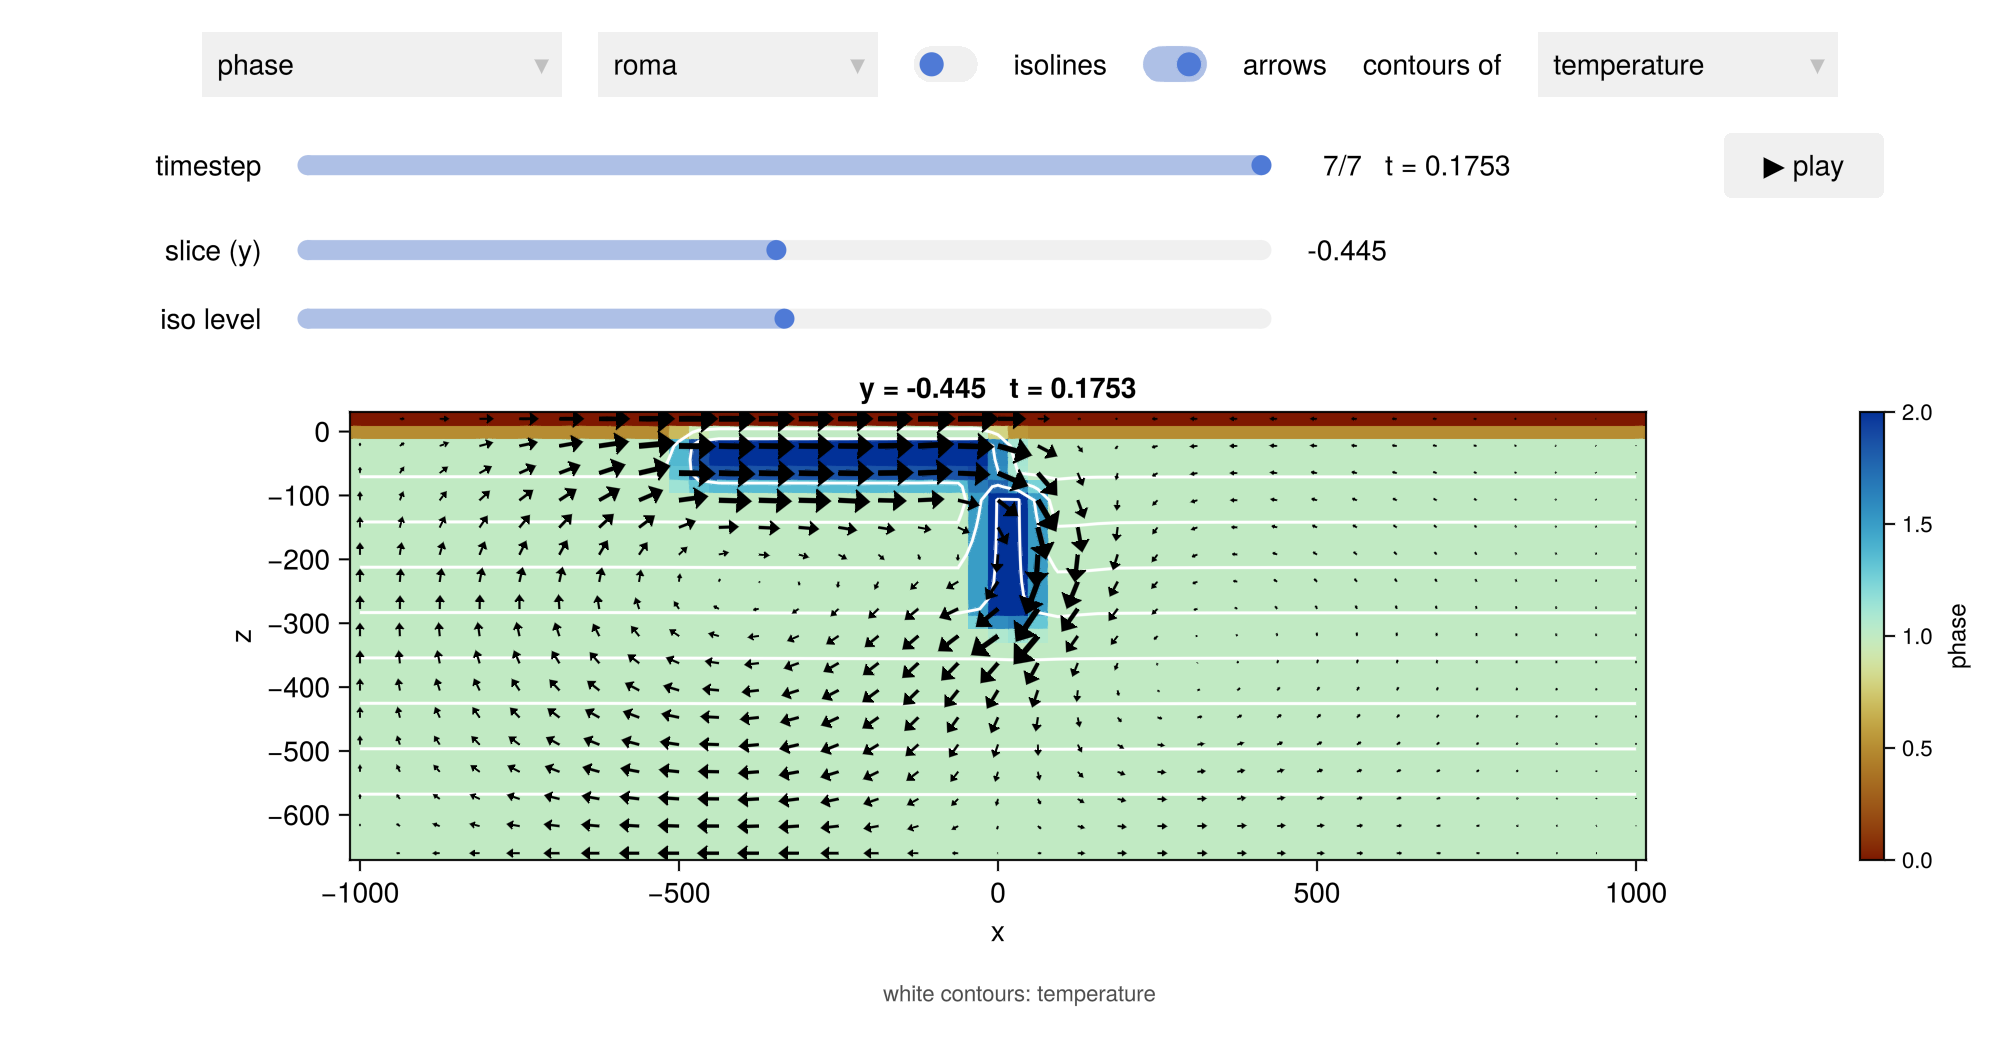
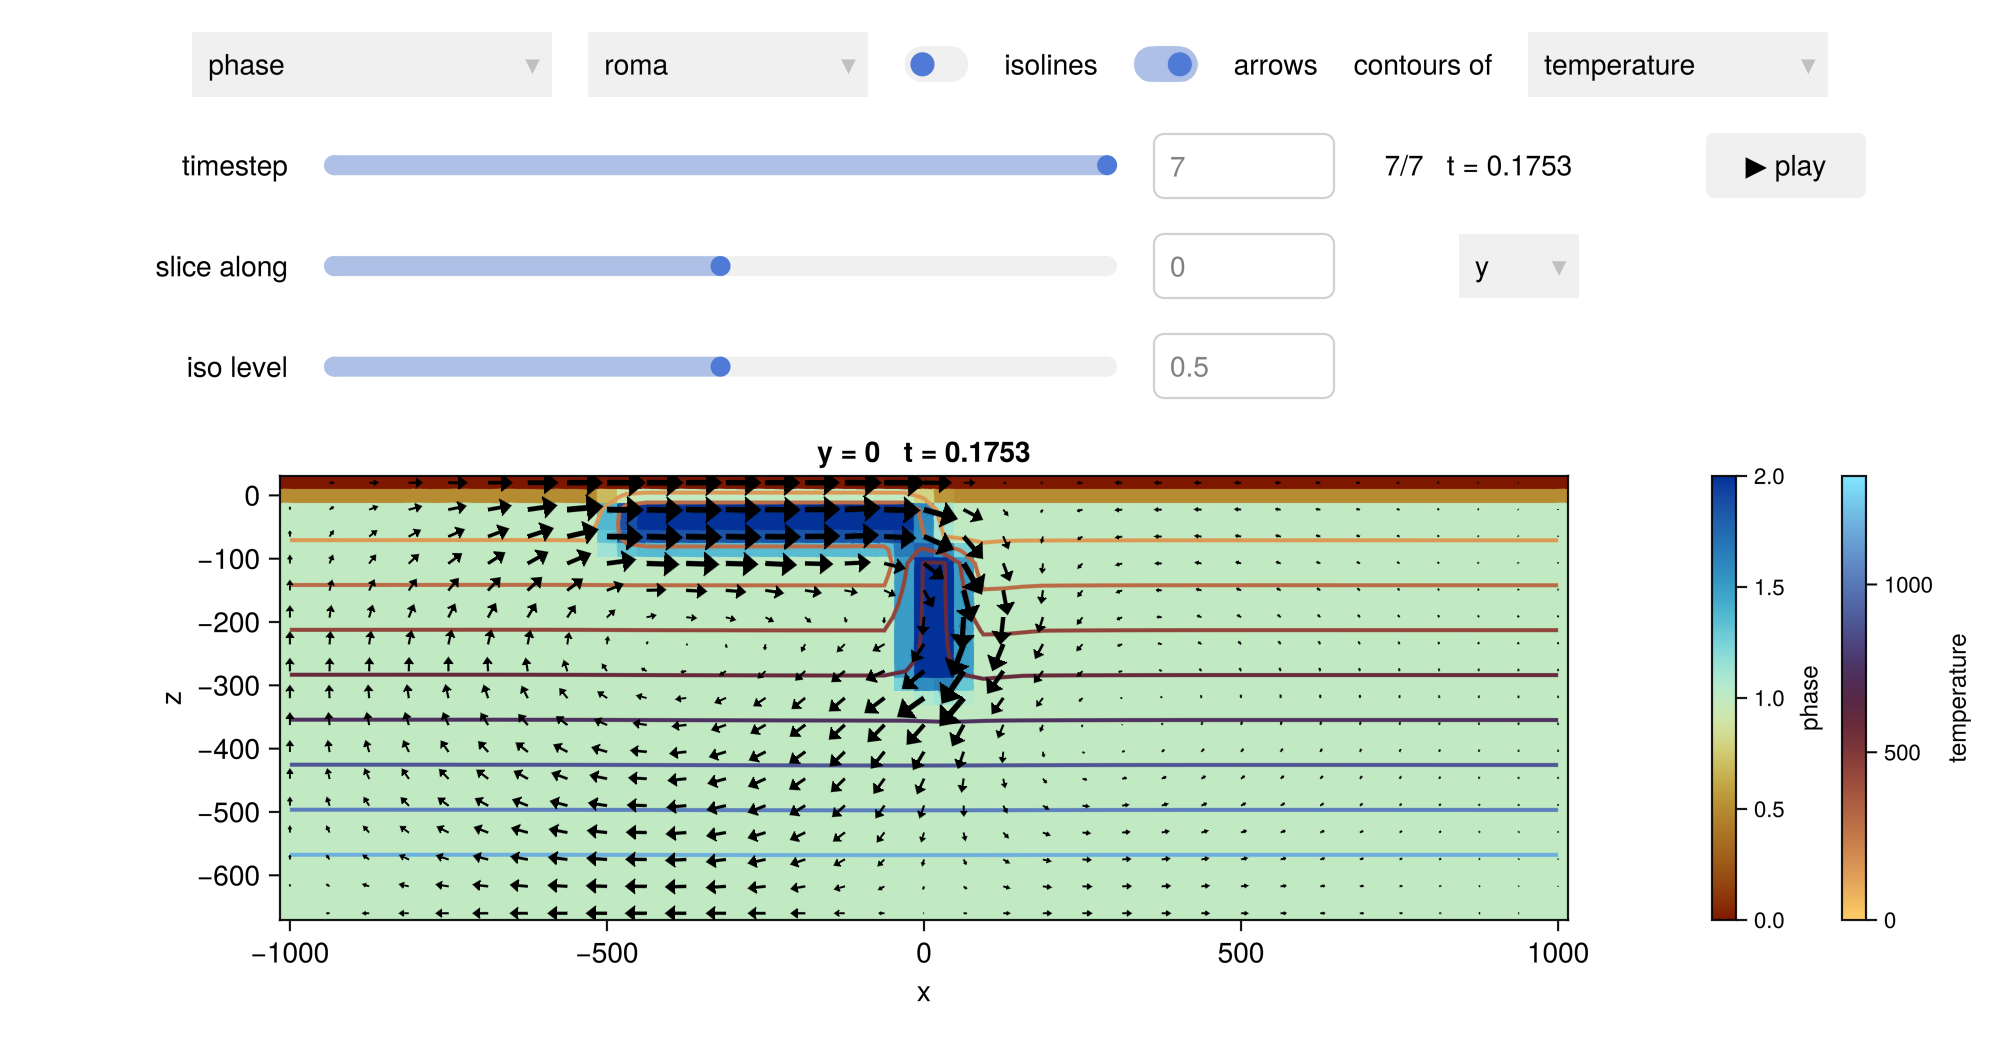
Equal aspect in 3D, coloured contours, and exact slice positions
Four things, all from the PR review:

- `Axis3` stretches each axis to fill its cell, so a sphere came out as a
  flattened ellipsoid. `aspect=:data` keeps the three axes in proportion to the
  model.

- The overlay contours were plain white. They are now coloured by their own
  value, with a second colorbar beside the first one -- labelled with the field
  and shown only while a field is selected, its column given no width otherwise
  so the plot takes the space back. `contour_colormap` sets the colormap.

- Each slider has a text box beside it, so an exact value can be typed rather
  than dragged to. The position range is finely sampled (401 steps), so a typed
  position is met rather than snapped to a coarse step; typing -300 now lands on
  exactly -300.

- A menu beside the slice slider chooses the axis to cut along, so a 2D model can
  be sectioned the other way too. The axis is now an observable, which the slice,
  overlay and arrow lifts all take as an input; switching it rescales the
  position slider to that axis' extent.

Note for the tests: `fig.content` is not in construction order, so the controls
are found by what they hold rather than by index.

diff --git a/docs/src/viewer.md b/docs/src/viewer.md
@@ -28,8 +28,8 @@ julia> view_model(model, field=:phase, contours=:temperature, arrows=true)
 
 ![The viewer on a 2D model](assets/viewer_2d.png)
 
-*A 2D subduction model: the phases as a heatmap, the temperature as white contours over it,
-and the flow field as arrows.*
+*A 2D subduction model: the phases as a heatmap, the temperature as coloured contours over
+them with their own colorbar, and the flow field as arrows.*
 
 ## What the window shows
 
@@ -40,16 +40,21 @@ it, with controls above them for:
   expanded per component, so the velocity appears as `velocity[1]`, `velocity[2]` and
   `velocity[3]`.
 - the **timestep**, as a slider. The `▶ play` button animates the simulation.
-- the **slice position**, which moves the cross-section through the model. By default the
-  section cuts the thinnest direction, which for a quasi-2D LaMEM setup is the plane worth
-  looking at; give `x`, `y` or `z` to pin another one.
+- the **slice position**, which moves the cross-section through the model. The menu beside it
+  chooses the axis to cut along, so a 2D model can be sectioned the other way as well. By
+  default the section cuts the thinnest direction, which for a quasi-2D LaMEM setup is the
+  plane worth looking at.
 - **isolines/surface**, which draws a contour of the displayed field on the cross-section and
   an isosurface in the 3D view, at the level set by the `iso level` slider. This is on by
   default, since volume rendering shows little of a phase field.
 - **velocity arrows** on the cross-section, scaled to the largest velocity in the section.
-- **contours of** a second field, drawn in white over the heatmap — the temperature over the
-  phases, say. `none` switches them off.
+- **contours of** a second field, drawn over the heatmap — the temperature over the phases,
+  say. The contours are coloured by their own value and get a second colorbar of their own,
+  which appears only while a field is selected. `none` switches them off.
 - the **colormap**.
+
+Every slider has a text box beside it, so an exact value can be typed in rather than dragged
+to: a cross-section at exactly `z = -100`, or a particular timestep.
 
 The viewer also opens on a model that has not been run, in which case it shows the initial
 setup — useful to check a setup before starting a simulation:
@@ -75,6 +80,7 @@ julia> view_model(model, field=:velocity, dim=1, colormap=:vik, isosurface=false
 - `isosurface`, `arrows`: whether those start switched on (the isosurface defaults to on for
   a 3D model, and is just the isolines for a 2D one)
 - `contours`: a second field to contour over the heatmap, e.g. `contours=:temperature`
+- `contour_colormap`: the colormap for those contours
 - `size`: the size of the window
 
 ## Saving a movie
